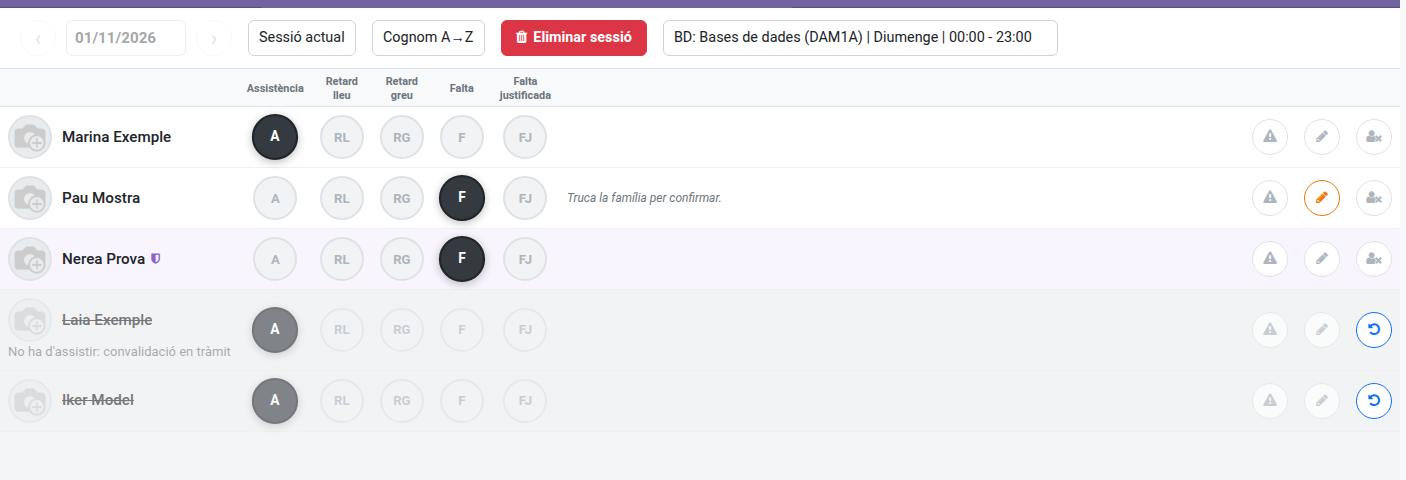
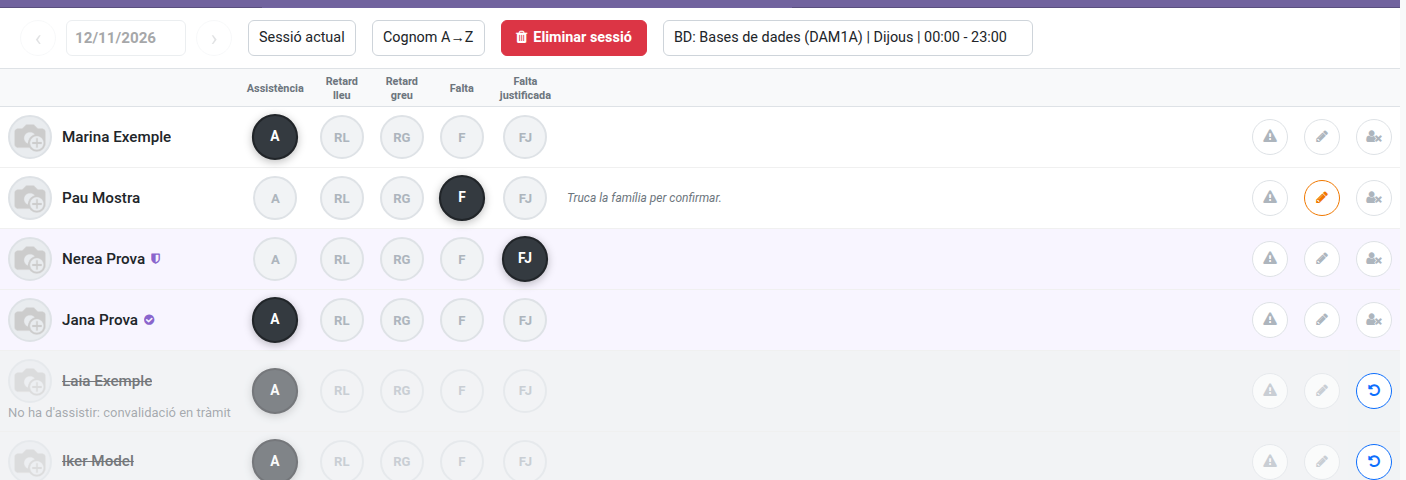
Issue #811: roll-call screenshot, test trimming and final cleanup

diff --git a/tests/test_attendance_came_despite_justification.py b/tests/test_attendance_came_despite_justification.py
@@ -9,7 +9,7 @@ from .common import create_head_of_studies_branch, create_level_study, create_ro
 
 class TestAttendedDespiteJustification(TransactionCase):
     """Issue #811: a justified student comes to class after all (ems.attendance_session_line
-    attend_despite_justification / undo_attend_despite_justification)."""
+    change_justified_status)."""
 
     @classmethod
     def setUpClass(cls):
@@ -75,10 +75,6 @@ class TestAttendedDespiteJustification(TransactionCase):
         return self.env['ems.info_notice'].sudo().search([
             ('user_id', '=', self.tutor_user.id), ('res_model', '=', 'res.partner'), ('res_id', '=', self.student.id)])
 
-    def test_justified_line_is_justified(self):
-        self.assertEqual(self.line.status_id, self.justified)
-        self.assertEqual(self.line.attendance_justification_id, self.justification)
-
     def test_attending_keeps_the_justification_and_tells_the_tutor(self):
         self._attend()
         self.assertEqual(self.line.status_id, self.attended)
@@ -88,31 +84,17 @@ class TestAttendedDespiteJustification(TransactionCase):
         self.assertEqual(len(notices), 1)
         self.assertIn('Came Despite Student', notices.body)
 
-    def test_a_delay_is_allowed(self):
-        self._attend(status=self.env.ref('ems.attendance_status_delayed'))
-        self.assertEqual(self.line.status_id, self.env.ref('ems.attendance_status_delayed'))
-
     def test_only_the_ordinary_absence_stays_locked(self):
         with self.assertRaises(UserError):
             self._attend(status=self.env.ref('ems.attendance_status_miss'))
         self.assertEqual(self.line.status_id, self.justified)
         self.assertFalse(self.line.came_despite_justification)
 
-    def test_a_severe_delay_is_allowed(self):
-        severe = self.env.ref('ems.attendance_status_delayed_severe')
-        self._attend(status=severe)
-        self.assertEqual(self.line.status_id, severe)
-        self.assertTrue(self.line.came_despite_justification)
-
     def test_switching_between_options_needs_no_undo(self):
         for xmlid in ('attended', 'delayed_severe', 'delayed', 'attended'):
             self._attend(status=self.env.ref(f'ems.attendance_status_{xmlid}'))
             self.assertEqual(self.line.status_id, self.env.ref(f'ems.attendance_status_{xmlid}'))
             self.assertTrue(self.line.came_despite_justification)
-        # ... and back to the justified absence, with its justification and notes.
-        self._attend(status=self.justified)
-        self.assertFalse(self.line.came_despite_justification)
-        self.assertEqual(self.line.attendance_justification_id, self.justification)
 
     def test_a_justified_severe_delay_stays_locked(self):
         # Justifying a severe delay leaves a minor delay that is itself the justified state.
@@ -125,7 +107,7 @@ class TestAttendedDespiteJustification(TransactionCase):
         with self.assertRaises(UserError):
             self._attend()
 
-    def test_undo_puts_the_justified_absence_back(self):
+    def test_going_back_to_justified_is_the_undo(self):
         self._attend()
         self._attend(status=self.justified)
         self.assertEqual(self.line.status_id, self.justified)

diff --git a/tests/test_docs_screenshots_teachers.py b/tests/test_docs_screenshots_teachers.py
@@ -273,6 +273,7 @@ class TestDocsScreenshotsTeachers(DocsScreenshotMixin, HttpCase):
         student_c = self._student(group, 'Nerea Prova')
         student_d = self._student(group, 'Iker Model')
         student_e = self._student(group, 'Laia Exemple')
+        student_f = self._student(group, 'Jana Prova')
 
         # The clock is set to 10:00 (shift_ems_clock), inside this whole-day slot: the schedule
         # is the current one whatever time this capture actually runs at.
@@ -285,7 +286,7 @@ class TestDocsScreenshotsTeachers(DocsScreenshotMixin, HttpCase):
         schedule = self.env['ems.attendance_schedule'].create({
             'attendance_template_id': template.id, 'weekday': weekday,
             'start_time': 0.0, 'end_time': 23.0, 'space_id': space.id,
-            'student_ids': [(6, 0, (student_a + student_b + student_c + student_d + student_e).ids)],
+            'student_ids': [(6, 0, (student_a + student_b + student_c + student_d + student_e + student_f).ids)],
         })
         session = self.env['ems.attendance_session_header'].create({
             'attendance_schedule_id': schedule.id, 'date': today,
@@ -309,7 +310,18 @@ class TestDocsScreenshotsTeachers(DocsScreenshotMixin, HttpCase):
             'end_date': datetime.combine(today, datetime.max.time()),
             'notes': 'Visita mèdica',
         })
-        line_c.write({'status_id': status_miss.id, 'attendance_justification_id': justification.id})
+        line_c.write({'status_id': self.env.ref('ems.attendance_status_justified').id,
+                      'attendance_justification_id': justification.id})
+        # Issue #811: justified, but she came to class after all (check mark, status buttons open).
+        justification_f = self.env['ems.attendance_justification'].create({
+            'teacher_id': self.teacher_employee.id, 'student_ids': [(6, 0, student_f.ids)],
+            'start_date': datetime.combine(today, datetime.min.time()),
+            'end_date': datetime.combine(today, datetime.max.time()),
+            'notes': 'Cita mèdica',
+        })
+        lines.filtered(lambda line: line.student_id == student_f).write({
+            'status_id': status_attended.id, 'attendance_justification_id': justification_f.id,
+            'came_despite_justification': True})
         # Removed from the roll-call (issue #537): greyed out, last in the list, restore button.
         lines.filtered(lambda line: line.student_id == student_d).active = False
         # Issue #644: taken off by EMS itself, with the reason under the name (a module she won't

diff --git a/models/attendance/attendance_session.py b/models/attendance/attendance_session.py
@@ -800,8 +800,7 @@ class EmsAttendanceSessionLine(models.Model):
         if not (line.attendance_justification_id or line.attendance_prevision_id) \
                 or not (line.came_despite_justification or line.status_id == justified):
             raise UserError(_("Only a justified absence can be changed to attendance."))
-        if status != justified and status not in self.env['ems.attendance_status'].browse(
-                self.get_justified_override_statuses()['allowed']):
+        if status.id not in self.get_justified_override_statuses()['allowed']:
             raise UserError(_("A justified absence can only be changed to an attendance, a delay or a severe delay."))
         if status == line.status_id:
             return True

diff --git a/docs/en/teachers/attendance-session.md b/docs/en/teachers/attendance-session.md
@@ -88,7 +88,7 @@ status for that session — it's saved immediately, no need to click a separate 
   move the mouse away. On a tablet or touch screen, tap the photo to enlarge it and tap it again to
   close it.
 
-![Current session with the status buttons, a note, and a student with a justified absence (shield) and one removed from the roll-call (last row)](../../assets/teachers/passlist-01-assistencia-actual.png)
+![Current session with the status buttons, a note, and a student with a justified absence (shield), one who is justified but came to class (check mark) and one removed from the roll-call (last row)](../../assets/teachers/passlist-01-assistencia-actual.png)
 
 ---
 

diff --git a/docs/es/teachers/attendance-session.md b/docs/es/teachers/attendance-session.md
@@ -87,7 +87,7 @@ Guardar.
   cierra al apartar el ratón. En una tableta o pantalla táctil, toca la foto para ampliarla y vuelve
   a tocarla para cerrarla.
 
-![Sesión actual con los botones de estado, una nota y un alumno con ausencia justificada (escudo) y uno quitado de la lista (última fila)](../../assets/teachers/passlist-01-assistencia-actual.png)
+![Sesión actual con los botones de estado, una nota y un alumno con ausencia justificada (escudo), uno justificado que ha venido a clase (marca de verificación) y uno quitado de la lista (última fila)](../../assets/teachers/passlist-01-assistencia-actual.png)
 
 ---
 

diff --git a/docs/ca/teachers/attendance-session.md b/docs/ca/teachers/attendance-session.md
@@ -87,7 +87,7 @@ Desar.
   tanca quan apartes el ratolí. En una tauleta o pantalla tàctil, toca la foto per ampliar-la i
   torna-la a tocar per tancar-la.
 
-![Sessió actual amb els botons d'estat, una nota i un alumne amb absència justificada (escut) i un de tret de la llista (última fila)](../../assets/teachers/passlist-01-assistencia-actual.png)
+![Sessió actual amb els botons d'estat, una nota i un alumne amb absència justificada (escut), un de justificat que ha vingut a classe (marca de verificació) i un de tret de la llista (última fila)](../../assets/teachers/passlist-01-assistencia-actual.png)
 
 ---
 
